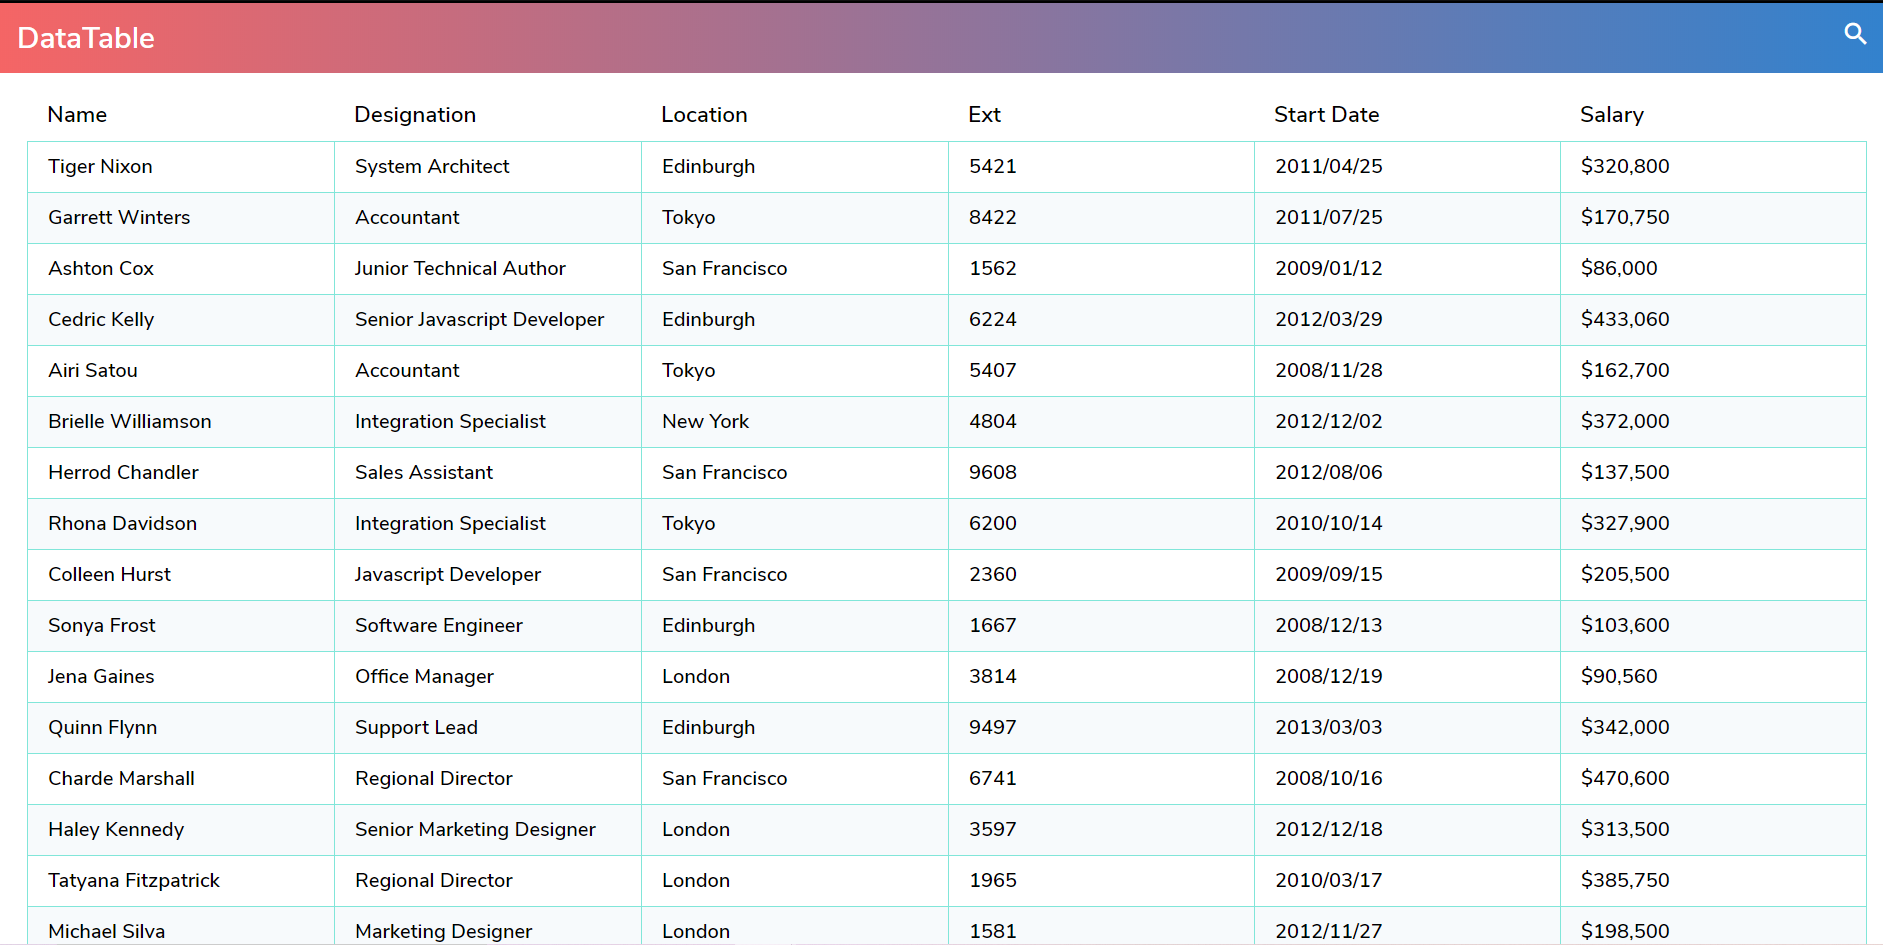
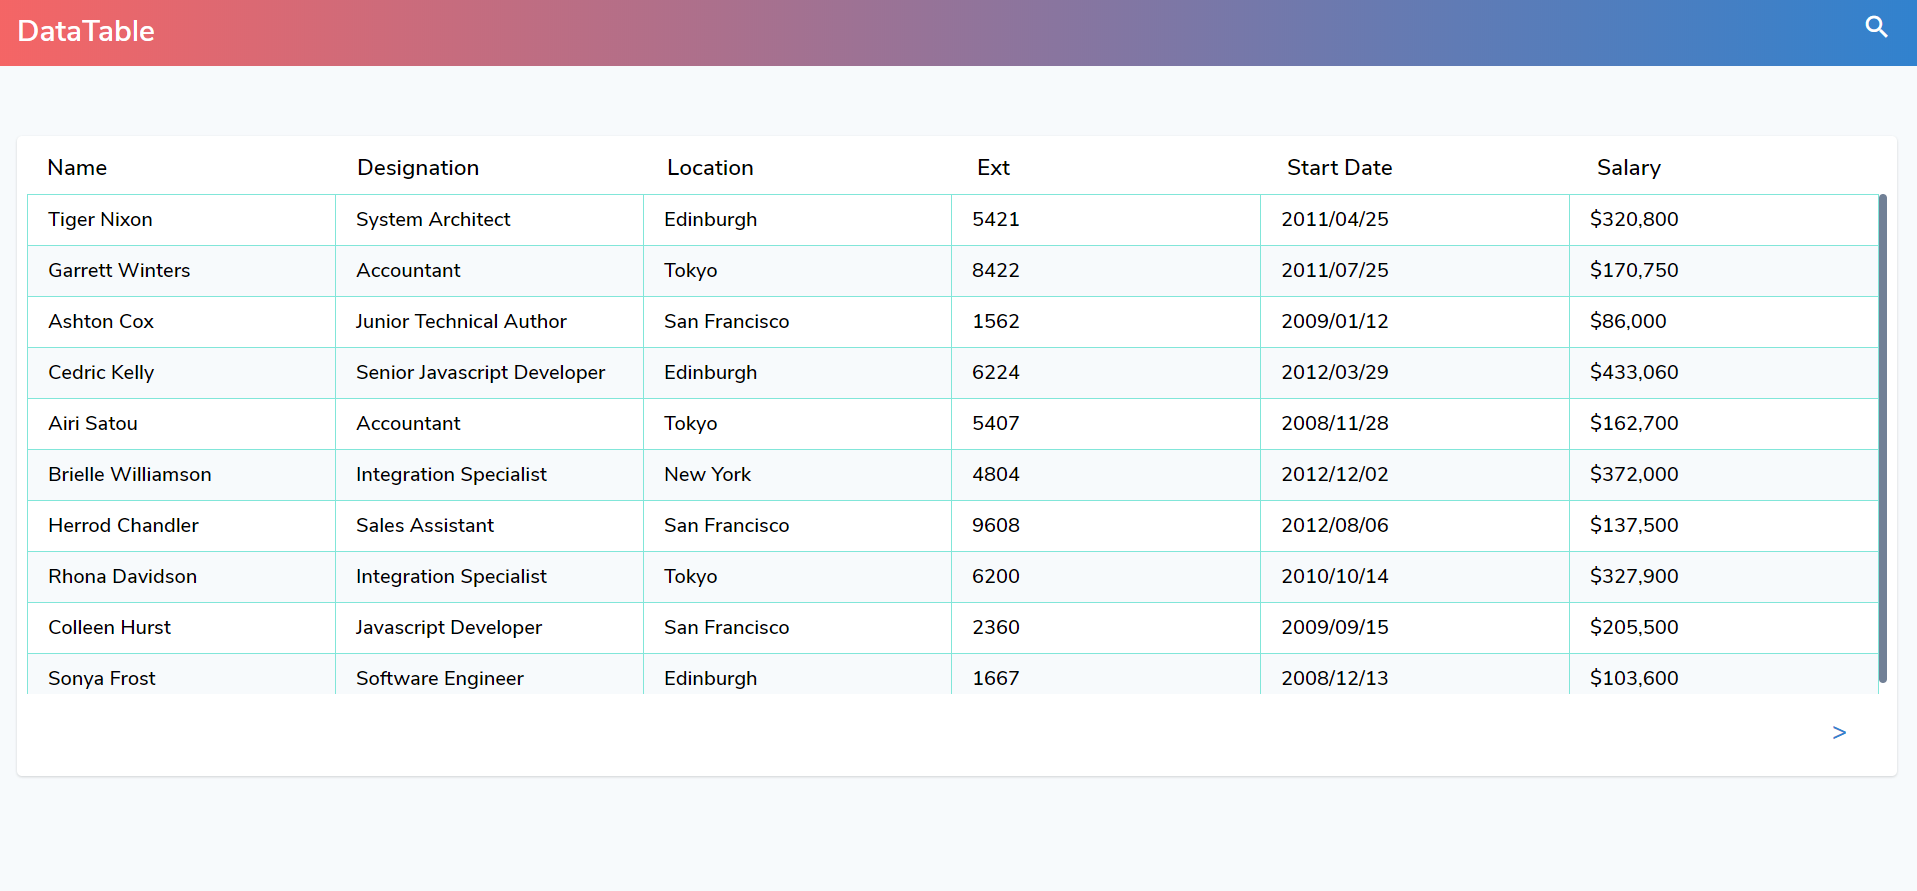
added pagination and changed screenshot

diff --git a/datatable/src/app/store/reducers/datatable.reducer.ts b/datatable/src/app/store/reducers/datatable.reducer.ts
@@ -3,6 +3,8 @@ import * as datatableActions from '../actions/datatable.actions';
 import {data} from '../../models/data'
 
 export const initialState={
+    currPage:1,
+    totalPages:1,
     tblData: [
         [
           "Tiger Nixon",
@@ -460,13 +462,15 @@ export const initialState={
           "2011/01/25",
           "$112,000"
         ]
-      ]
+      ],
+    ftTxt:''
 }
 
 const datatableReducer=createReducer(initialState,
-  on(datatableActions.fetch,state=>({...state})),
+  on(datatableActions.init,state=>({tblData:initialState.tblData.slice(0,10),currPage:1,totalPages:initialState.tblData.length/10,ftTxt:''})),
   on(datatableActions.filterRecords,(state,{txt})=>(
-      {tblData:initialState.tblData.filter(el=>{
+      {
+        tblData:initialState.tblData.filter(el=>{
         let success=false
         if(txt.toLowerCase()=='')
           success=true
@@ -475,9 +479,56 @@ const datatableReducer=createReducer(initialState,
               success=inel.toLowerCase().indexOf(txt.toLowerCase())>-1
         });
         return success;
-      })}
-    )
-  ));
+      }).slice(0,10),
+      currPage:1,
+      totalPages:(initialState.tblData.filter(el=>{
+        let success=false
+        if(txt.toLowerCase()=='')
+          success=true
+        el.forEach(inel=>{
+            if(!success)
+              success=inel.toLowerCase().indexOf(txt.toLowerCase())>-1
+        });
+        return success;
+      }).length)/10,
+      ftTxt:txt
+     }
+    )), 
+    on(datatableActions.nextPage,(state)=>(
+      {
+        ...state,
+        tblData:initialState.tblData.filter(el=>{
+        let success=false
+        if(state.ftTxt.toLowerCase()=='')
+          success=true
+        el.forEach(inel=>{
+            if(!success)
+              success=inel.toLowerCase().indexOf(state.ftTxt.toLowerCase())>-1
+        });
+        return success;
+      }).slice((state.currPage)*10,((state.currPage)*10)+10),
+      currPage:state.currPage+1,
+      totalPages:state.totalPages,      
+     }
+    )),
+    on(datatableActions.prevPage,(state)=>(
+      {
+        ...state,
+        tblData:initialState.tblData.filter(el=>{
+        let success=false
+        if(state.ftTxt.toLowerCase()=='')
+          success=true
+        el.forEach(inel=>{
+            if(!success)
+              success=inel.toLowerCase().indexOf(state.ftTxt.toLowerCase())>-1
+        });
+        return success;
+      }).slice((state.currPage-2)*10,((state.currPage-2)*10)+10),
+      currPage:state.currPage-1,
+      totalPages:state.totalPages,      
+     }
+    )),  
+  );
 
   export function reducer(state:data|undefined, action: Action) {
     return datatableReducer(state, action);

diff --git a/datatable/src/app/table/table.component.html b/datatable/src/app/table/table.component.html
@@ -1,5 +1,5 @@
 <div class="m-auto py-2 px-4">   
-    <div class="py-1 px-2">              
+    <div class="py-1 px-2 bg-white shadow rounded flex flex-col mt-12">      
         <table class="table-fixed w-full">
             <thead class="text-left">
                 <tr>
@@ -11,13 +11,35 @@
                     <th class="w-1/6 text-lg py-2 px-4">Salary</th>
                 </tr>
             </thead>
-            <tbody [@recordsAnimation]="(data | async)?.length">
-                <tr *ngFor="let row of data|async; let i = index; ">
-                    <td *ngFor="let col of row" [ngClass]="{'border border-teal-300 py-2 px-4':true,'bg-gray-100':i%2!=0}">
-                        {{col}}
+        </table>    
+        <div class="tbl__container">
+            <table class="table-fixed w-full">            
+                <tbody [@recordsAnimation]="data | async">
+                    <tr *ngFor="let row of data|async; let i = index; ">
+                        <td *ngFor="let col of row" [ngClass]="{'border border-teal-300 py-2 px-4':true,'bg-gray-100':i%2!=0}">
+                            {{col}}
+                        </td>
+                    </tr>
+                </tbody>           
+            </table>
+        </div>
+        <table class="table-fixed w-full" *ngIf="(currPage|async)>1 || (currPage|async)<(totalPages|async)">
+            <tfoot>
+                <tr>
+                    <td colspan="6" class="py-2 px-4">
+                        <div class="flex w-full justify-end">
+                            <a class="btn py-2 px-4 hover:bg-gray-200 cursor-pointer rounded-full text-xl text-blue-600"
+                             *ngIf="(currPage|async)>1" (click)="prevPage()">
+                              <
+                            </a>
+                           <a class="btn py-2 px-4 hover:bg-gray-200 cursor-pointer rounded-full text-xl text-blue-600"
+                             *ngIf="(currPage|async)<(totalPages|async)" (click)="nextPage()">
+                               >
+                           </a>                       
+                         </div>
                     </td>
                 </tr>
-            </tbody>
+            </tfoot>
         </table>
     </div>
 </div>

diff --git a/datatable/src/app/table/table.component.ts b/datatable/src/app/table/table.component.ts
@@ -5,6 +5,7 @@ import { Observable } from 'rxjs';
 import {data} from '../models/data'
 import { map,count } from 'rxjs/operators';
 import {trigger,style,animate,transition,query,stagger} from '@angular/animations'
+import * as datatableActions  from '../store/actions/datatable.actions'
 
 export interface State{
   data:any
@@ -28,16 +29,24 @@ export interface State{
 })
 
 export class TableComponent implements OnInit {
-  data:Observable<any[]>    
-
-  constructor(private store: Store<State>) {
-    let storeData:Observable<data>;
-    storeData=this.store.select(state=>state.data);
-    this.data=storeData.pipe(map(el=>el.tblData));
-  
+  data:Observable<any[]>;  
+  currPage:Observable<number>;
+  totalPages:Observable<number>;
+  constructor(private store: Store<State>) {      
    }
 
   ngOnInit(): void {
+    this.store.dispatch(datatableActions.init());
+    let storeData:Observable<data>;
+    storeData=this.store.select(state=>state.data);
+    this.data=storeData.pipe(map(el=>el.tblData));
+    this.currPage=storeData.pipe(map(el=>el.currPage));
+    this.totalPages=storeData.pipe(map(el=>el.totalPages));
   }
-
+  nextPage():void{
+    this.store.dispatch(datatableActions.nextPage());
+  }
+  prevPage():void{
+    this.store.dispatch(datatableActions.prevPage());
+  }
 }

diff --git a/datatable/src/app/store/actions/datatable.actions.ts b/datatable/src/app/store/actions/datatable.actions.ts
@@ -1,10 +1,16 @@
 import { createAction, props } from '@ngrx/store';
 
-export const fetch = createAction(
-    '[Table] fetch',    
+export const init = createAction(
+    '[Table] init',    
+  );
+  export const nextPage = createAction(
+    '[Table] nextPage',    
+  );
+  export const prevPage = createAction(
+    '[Table] prevPage',    
   );
 
   export const filterRecords=createAction(
-    '[nav] filter',
+    '[Nav] filter',
     props<{txt:String}>()
   );

diff --git a/datatable/src/app/table/table.component.scss b/datatable/src/app/table/table.component.scss
@@ -1,0 +1,19 @@
+.btn{
+    transition: all 0.3s;
+}
+
+.tbl__container{
+    max-height: 25rem;
+    overflow-y: auto;
+    overflow-x:hidden;
+}
+
+.tbl__container::-webkit-scrollbar{
+    width:0.4rem;
+}
+
+.tbl__container::-webkit-scrollbar-thumb {
+    background-color:#718096;
+    outline: 1px solid #718096;
+    border-radius:4px;
+  }

diff --git a/datatable/src/app/app.component.html b/datatable/src/app/app.component.html
@@ -1,4 +1,4 @@
-<div class="font-app">
+<div class="font-app h-screen bg-gray-100">
   <app-nav></app-nav>
   <router-outlet></router-outlet>
 </div>

diff --git a/datatable/src/app/models/data.ts b/datatable/src/app/models/data.ts
@@ -1,3 +1,6 @@
 export interface data{
-    tblData:any[]
+    tblData:any[],
+    currPage:number,
+    totalPages:number,
+    ftTxt:''
 }

diff --git a/datatable/src/app/nav/nav.component.scss b/datatable/src/app/nav/nav.component.scss
@@ -9,3 +9,7 @@ nav{
 .nav__right-finalWidth{
     width:25rem;
 }
+
+.btn{
+    transition: all 0.3s;
+}
